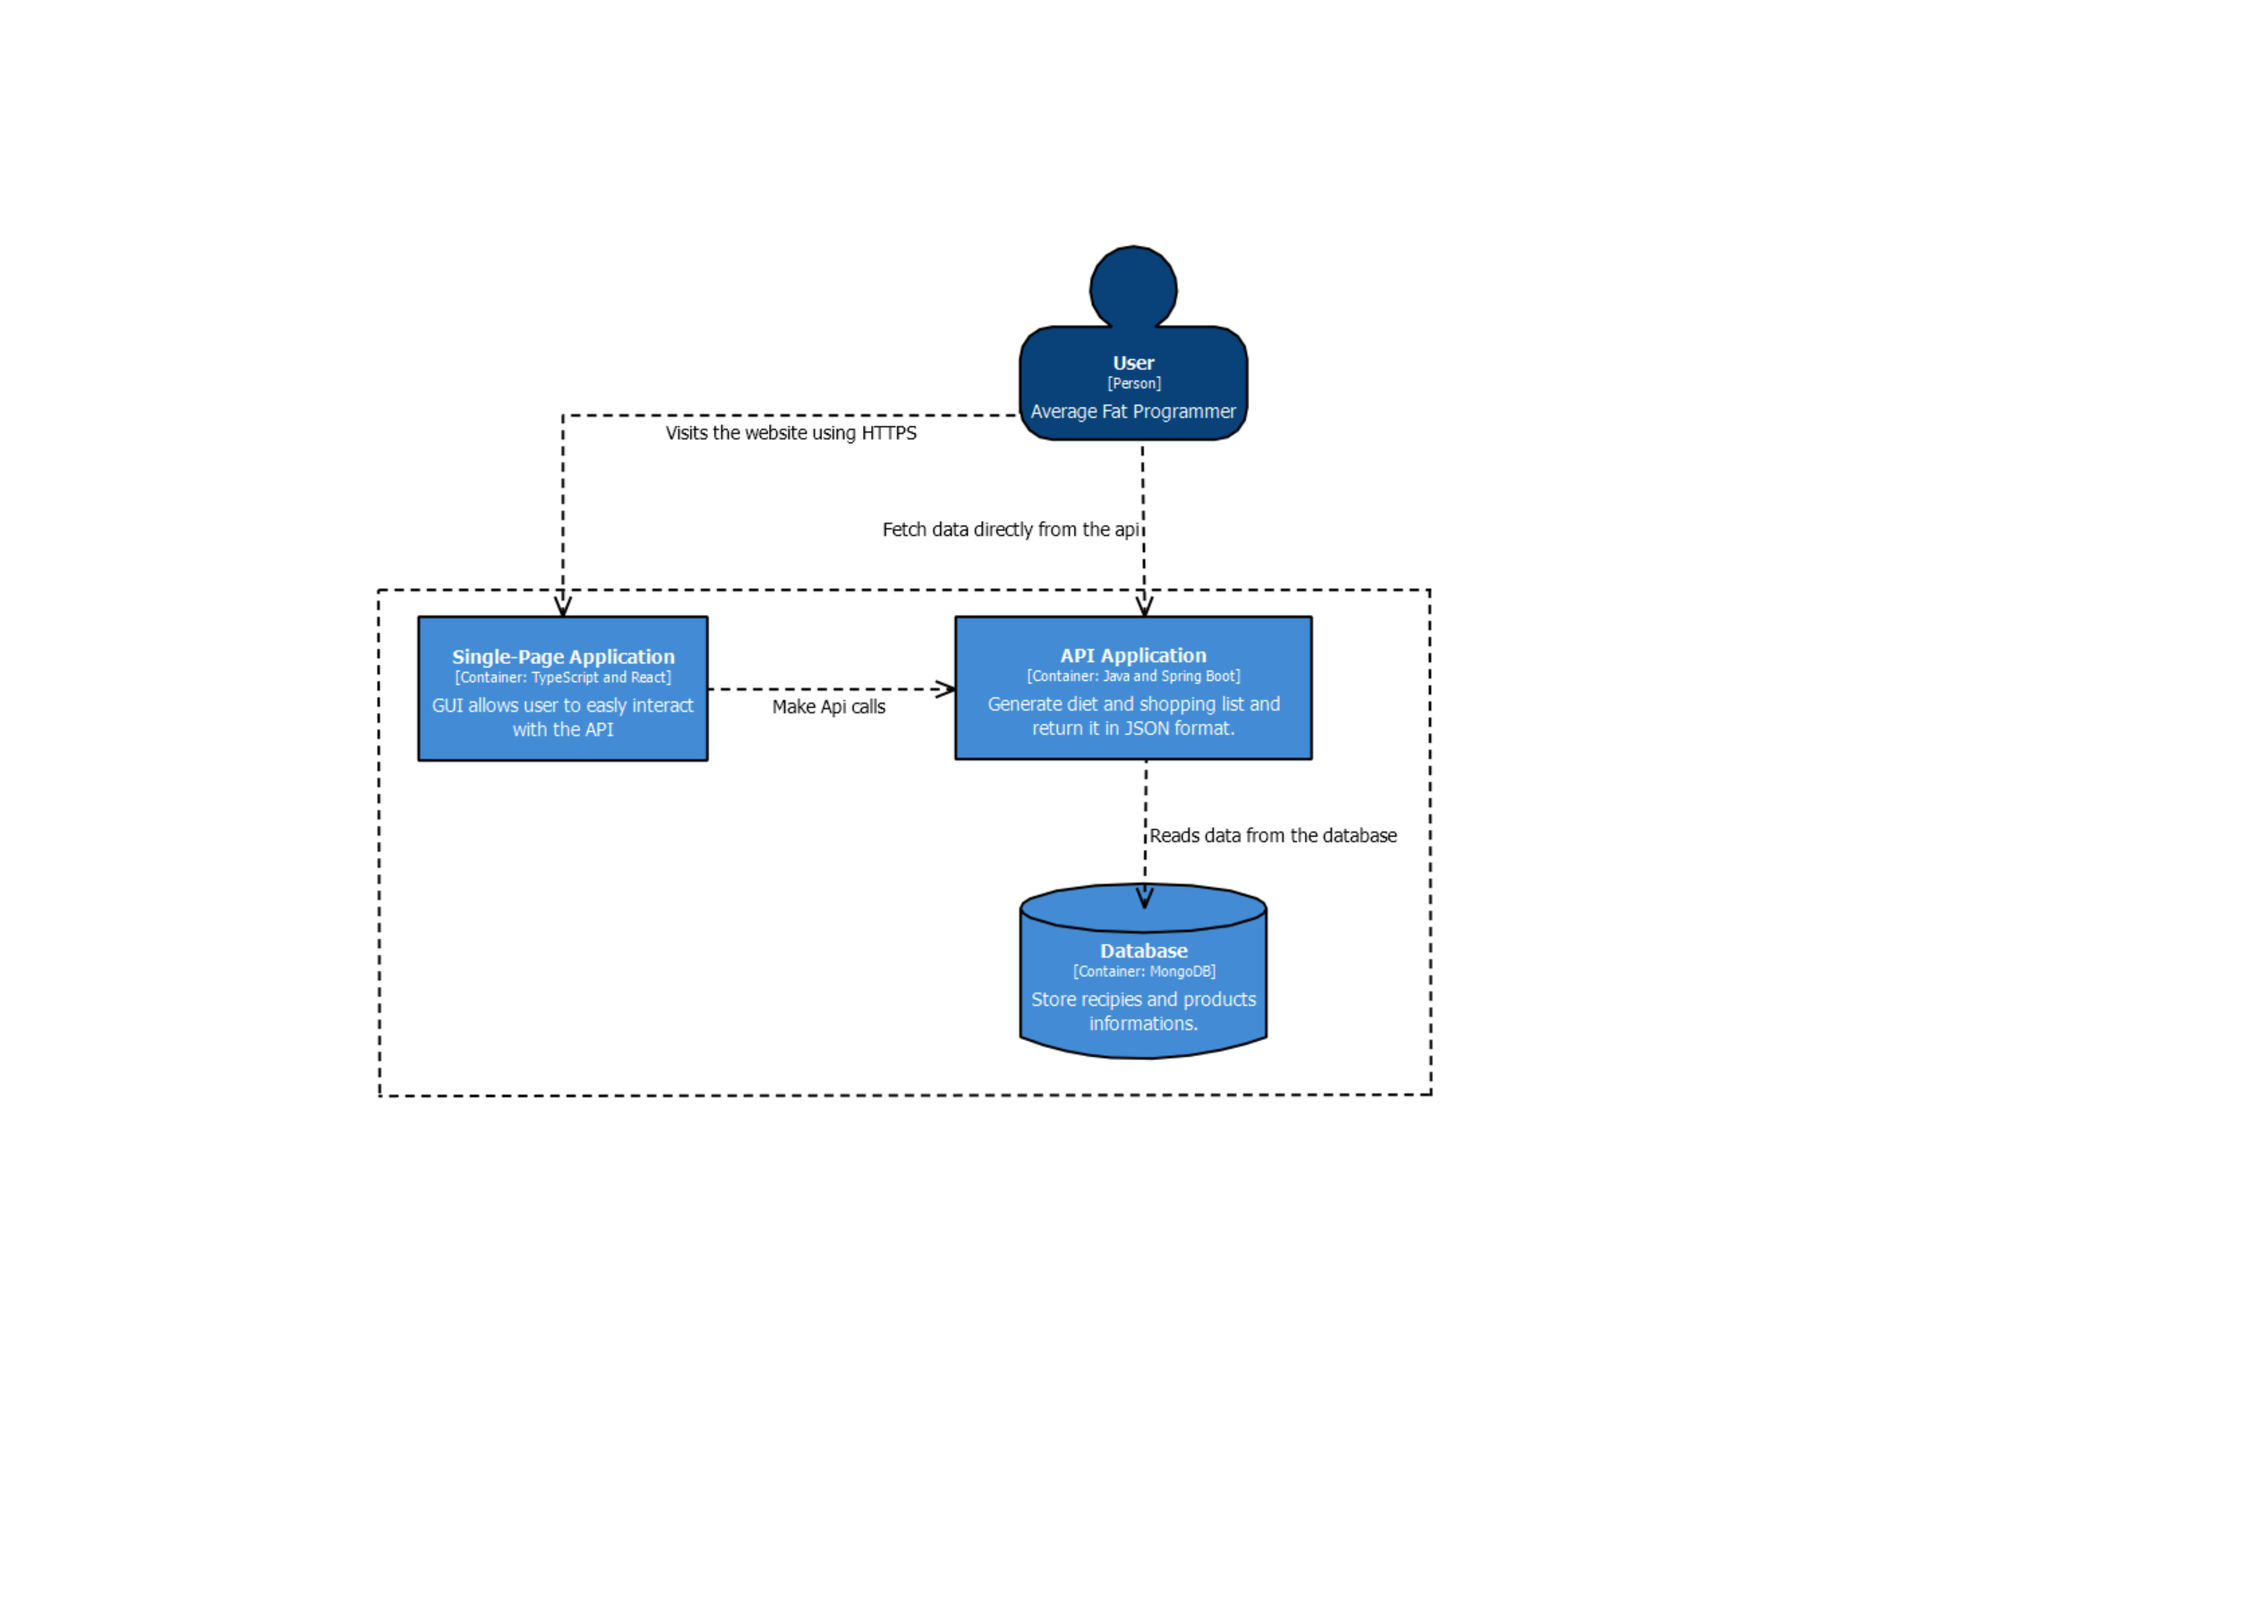
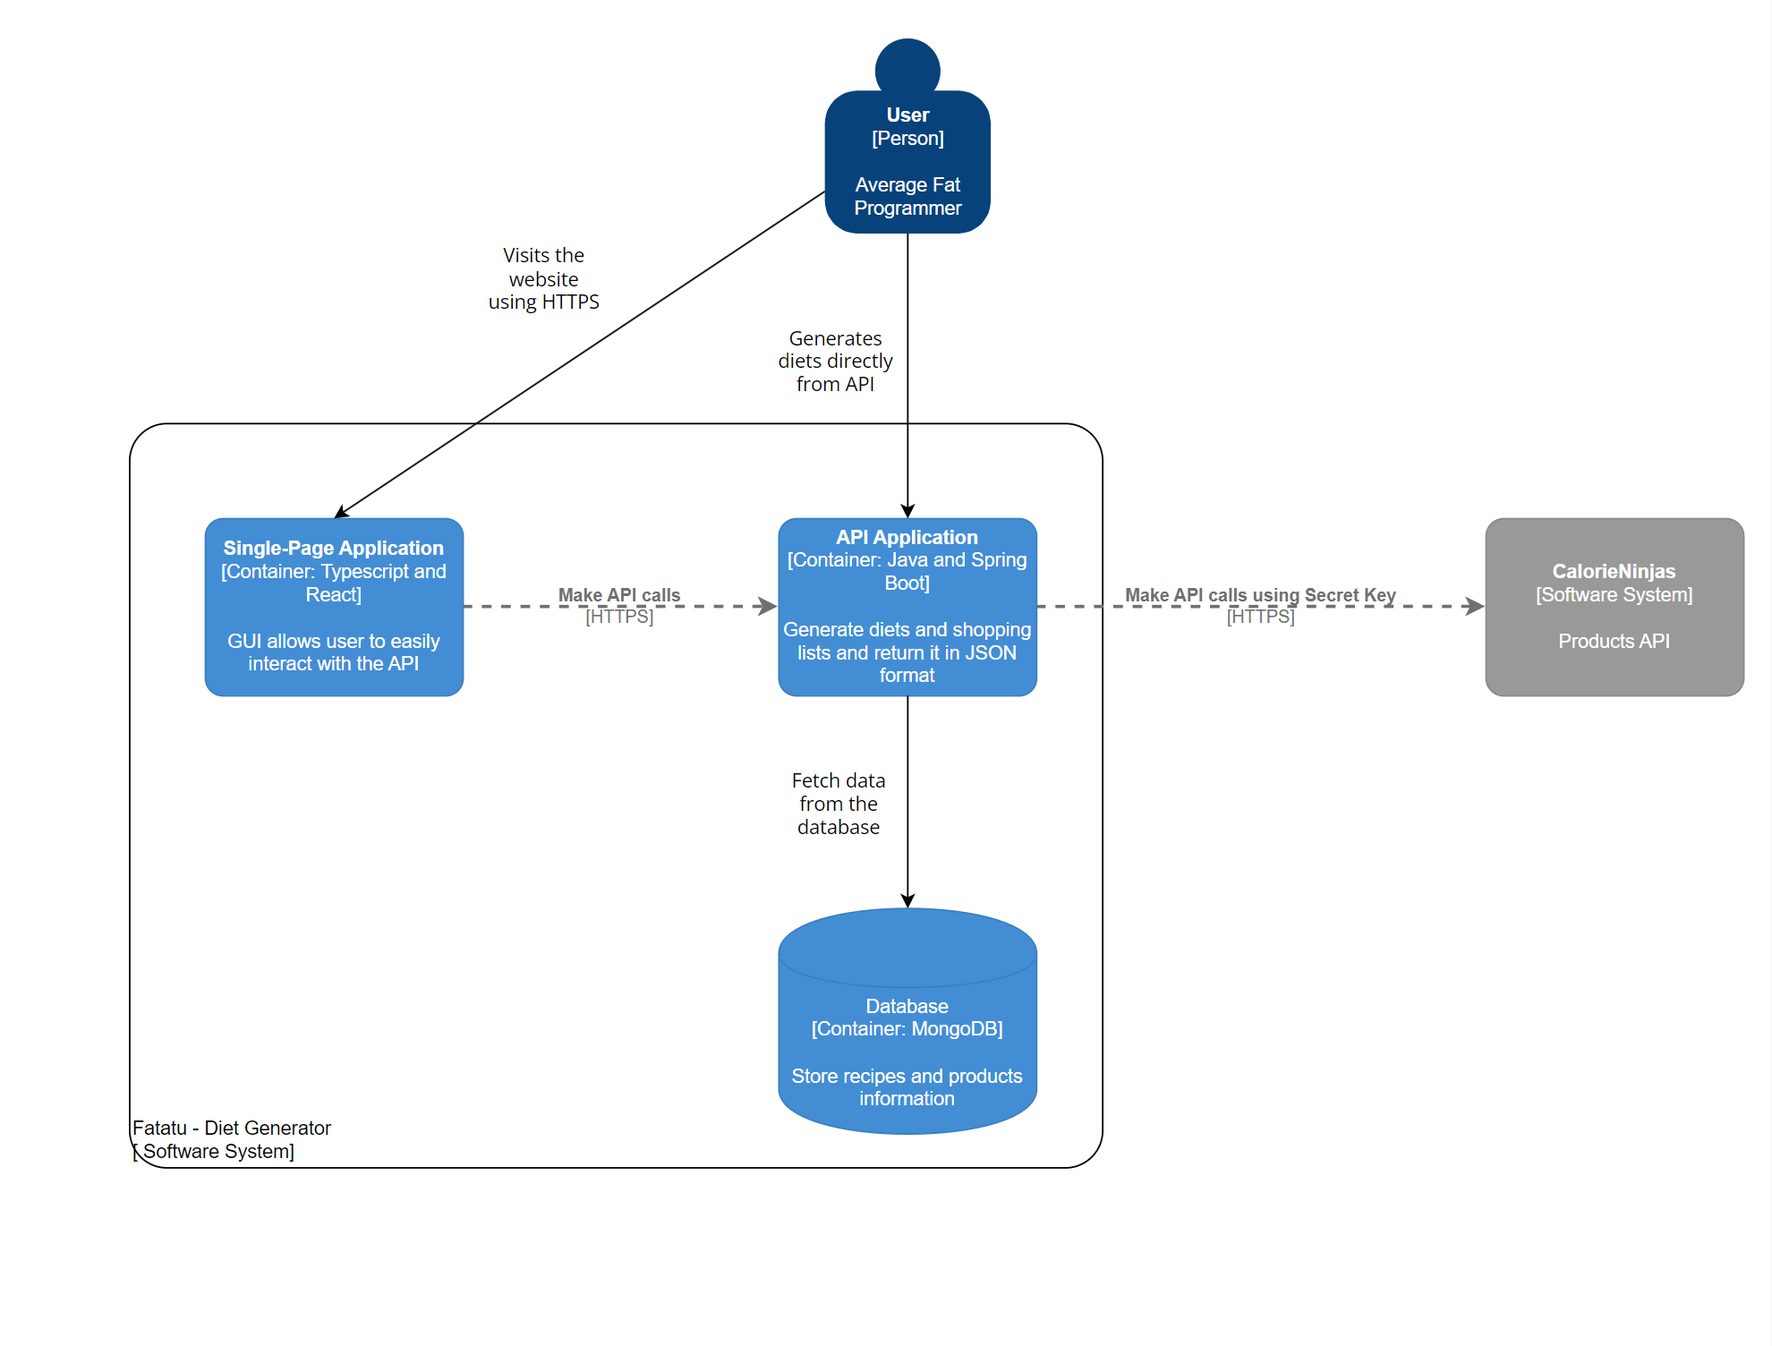
Added some information about clean architecture layers, changed c4 diagrams and description.

diff --git a/README.md b/README.md
@@ -5,6 +5,7 @@
 ## Technology Stack
 
 ### Backend
+
 ![Java](https://img.shields.io/badge/java-%23ED8B00.svg?style=for-the-badge&logo=openjdk&logoColor=white)
 ![Spring Boot](https://img.shields.io/badge/Spring%20Boot-6DB33F?style=for-the-badge&logo=spring-boot&logoColor=white)
 ![MongoDB](https://img.shields.io/badge/MongoDB-47A248?style=for-the-badge&logo=mongodb&logoColor=white)
@@ -12,13 +13,12 @@
 ![Docker](https://img.shields.io/badge/Docker-2496ED?style=for-the-badge&logo=docker&logoColor=white)
 
 ### Frontend
+
 ![TypeScript](https://img.shields.io/badge/TypeScript-3178C6?style=for-the-badge&logo=typescript&logoColor=white)
 ![React](https://img.shields.io/badge/react-%2320232a.svg?style=for-the-badge&logo=react&logoColor=%2361DAFB)
 ![Vite](https://img.shields.io/badge/vite-%23646CFF.svg?style=for-the-badge&logo=vite&logoColor=white)
 ![NPM](https://img.shields.io/badge/NPM-%23CB3837.svg?style=for-the-badge&logo=npm&logoColor=white)
 ![MaterialUI](https://img.shields.io/badge/Material--UI-007FFF?style=for-the-badge&logo=mui&logoColor=white)
-
-
 
 # 1. Introduction
 
@@ -467,7 +467,6 @@ in grams for the entire diet. It requires only one parameter, which is `Diet`.
 
 ## 3. Architecture
 
-
 This application is simple monolith that utilize clean architecture approach.
 
 Clean Architecture, introduced by Robert C. Martin, offers numerous benefits for backend applications. It enforces a
@@ -476,9 +475,32 @@ decoupling business logic from external dependencies, leading to more robust cod
 increases flexibility and maintainability, allowing changes in one part of the application without impacting others. It
 also promotes independence from specific frameworks.
 
-On diagram below we can clearly see that domain layer doesn't know anything about the application layer. Same apply to
-the application layer, it has knowledge about domain but doesn't know anything about infrastructure or presentation
-layers.
+Sure, here's a concise overview of each layer in Clean Architecture:
+
+1. Presentation Layer
+    - Responsibility: Manages user interactions.
+    - Components: UIs, Views, Controllers.
+    - Function: Interprets user inputs, displays data.
+    - Dependency: Depends on the Application layer.
+2. Domain Layer
+    - Responsibility: Core business logic and rules.
+    - Components: Entities, Value Objects, Domain Services.
+    - Function: Defines business concepts and rules.
+    - Dependency: Independent, no dependencies.
+3. Application Layer
+    - Responsibility: Orchestrates business operations.
+    - Components: Use Cases, Application Services.
+    - Function: Executes operations and coordinates data flow.
+    - Dependency: Depends on the Domain layer.
+4. Infrastructure Layer
+    - Responsibility: Provides technical implementations.
+    - Components: Databases, External APIs, Frameworks.
+    - Function: Handles technical details and concrete implementations.
+    - Dependency: Depends on all other layers.
+
+In the diagram below, we can clearly see that the domain layer doesn't know anything about the application layer. The
+same applies to the application layer; it has knowledge about the domain but doesn't know anything about the
+infrastructure or presentation layers.
 
 ![CleanArchitecture Diagram screenshot](/screenshots/clean-architecture-layer-diagram.png)
 
@@ -498,8 +520,10 @@ You may wonder how application layer receive data from database without knowing 
 The solution is quite interesting. In application layer we create interfaces that are templates and doesn't have any
 logic.
 Those interfaces are implemented by the infrastructure layer and application layer doesn't need to know how it was done.
-UseCase implementation belong to application layer, and usually it need some data from the database. To solve that problem we simply register
-`UseCaseImpl` with `@Bean` in infrastructure layer in `BeanConfiguration` class where we also inject our implementation of required repository.
+UseCase implementation belong to application layer, and usually it need some data from the database. To solve that
+problem we simply register
+`UseCaseImpl` with `@Bean` in infrastructure layer in `BeanConfiguration` class where we also inject our implementation
+of required repository.
 As you can see we separate application and domain layers from framework (Spring in this case) completely.
 
 Diagram below show tha basic sample implementation.
@@ -507,22 +531,22 @@ Diagram below show tha basic sample implementation.
 ![Bean Registration Diagram screenshot](/screenshots/beanregistration_diagram.png)
 
 This approach give us lots of flexibility. We can change our database or the whole framework.
-We can rewrite whole infrastructure layer without changing even 1 line in application or domain layers. 
+We can rewrite whole infrastructure layer without changing even 1 line in application or domain layers.
 Well, in fact our core still depends on infrastructure and presentation layers, those need to be there, but the borders
-are clearly created. 
+are clearly created.
 
 Packages according to the clean architecture are presented below:
 
 ![Packages screenshot](/screenshots/package_structure_ss.png)
 
-
-
-
 ### 3.1 C4 Model
 
-The C4 model is a simple way to visualize the software system. Simon Brown made this model to help people who make
-software to explain and show how their systems are built. This can be useful when planning a system or explaining one
-that already exists.
+"The C4 model was created as a way to help software development teams describe and communicate software architecture,
+both during up-front design sessions and when retrospectively documenting an existing codebase. It's a way to create
+maps of your code, at various levels of detail, in the same way you would use something like Google Maps to zoom in and
+out of an area you are interested in."
+
+You can read more about C4 Model at this [LINK](https://c4model.com/)
 
 The C4 model has 4 parts:
 
